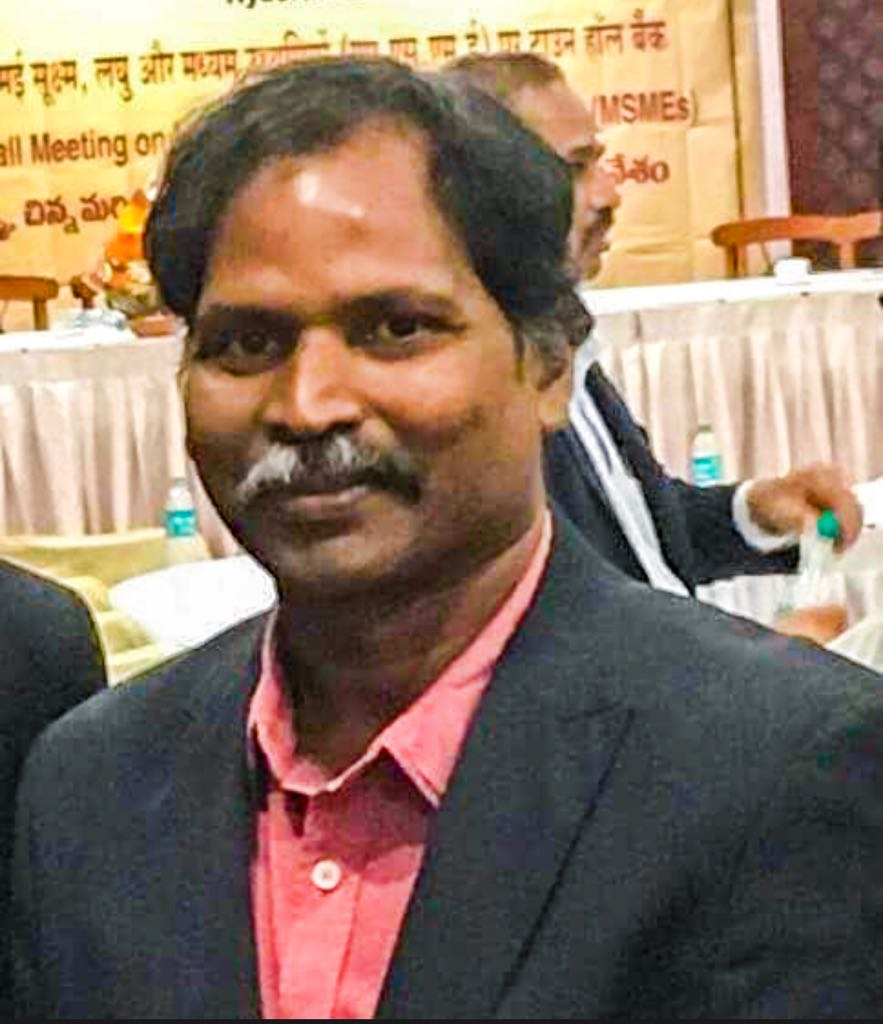
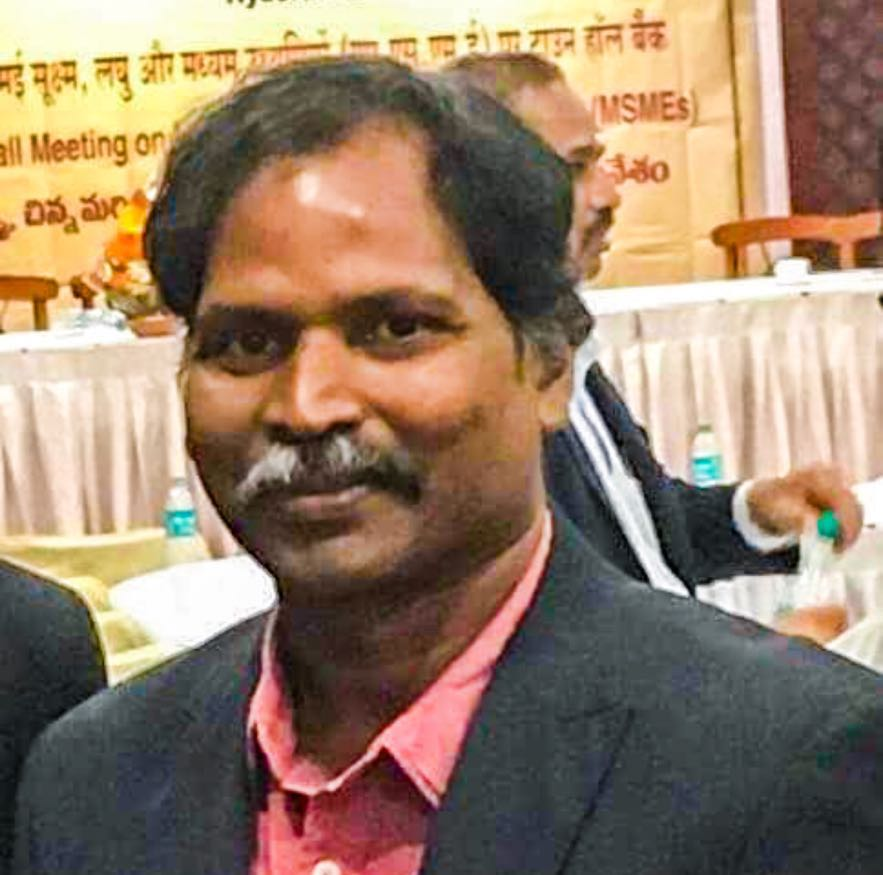
change pro pic

diff --git a/src/components/Team.tsx b/src/components/Team.tsx
@@ -15,7 +15,7 @@ export default class Team extends React.Component<{}, {}> {
                     <div className="row">
                         <div className="col-lg-12 text-center" >
                             <div className="team-member">
-                                <img className="mx-auto rounded-circle" src="img/d2.jpg" alt="" />
+                                <img className="mx-auto rounded-circle" src="img/d.jpg" alt="" />
                                 <h4>David Brainard</h4>
                                 <p className="text-muted">Chairman and CEO of Microsmartware.Pvt. Ltd</p>
                                 <p>David Brainard is a visionary leader and team builder who has been blasting / Eradicating poverty through Business by mentoring and motivating about Economic Support schemes, Mudraloans, Start-up India, STAND-UP INDIA, MSME  Loans and Much more.
